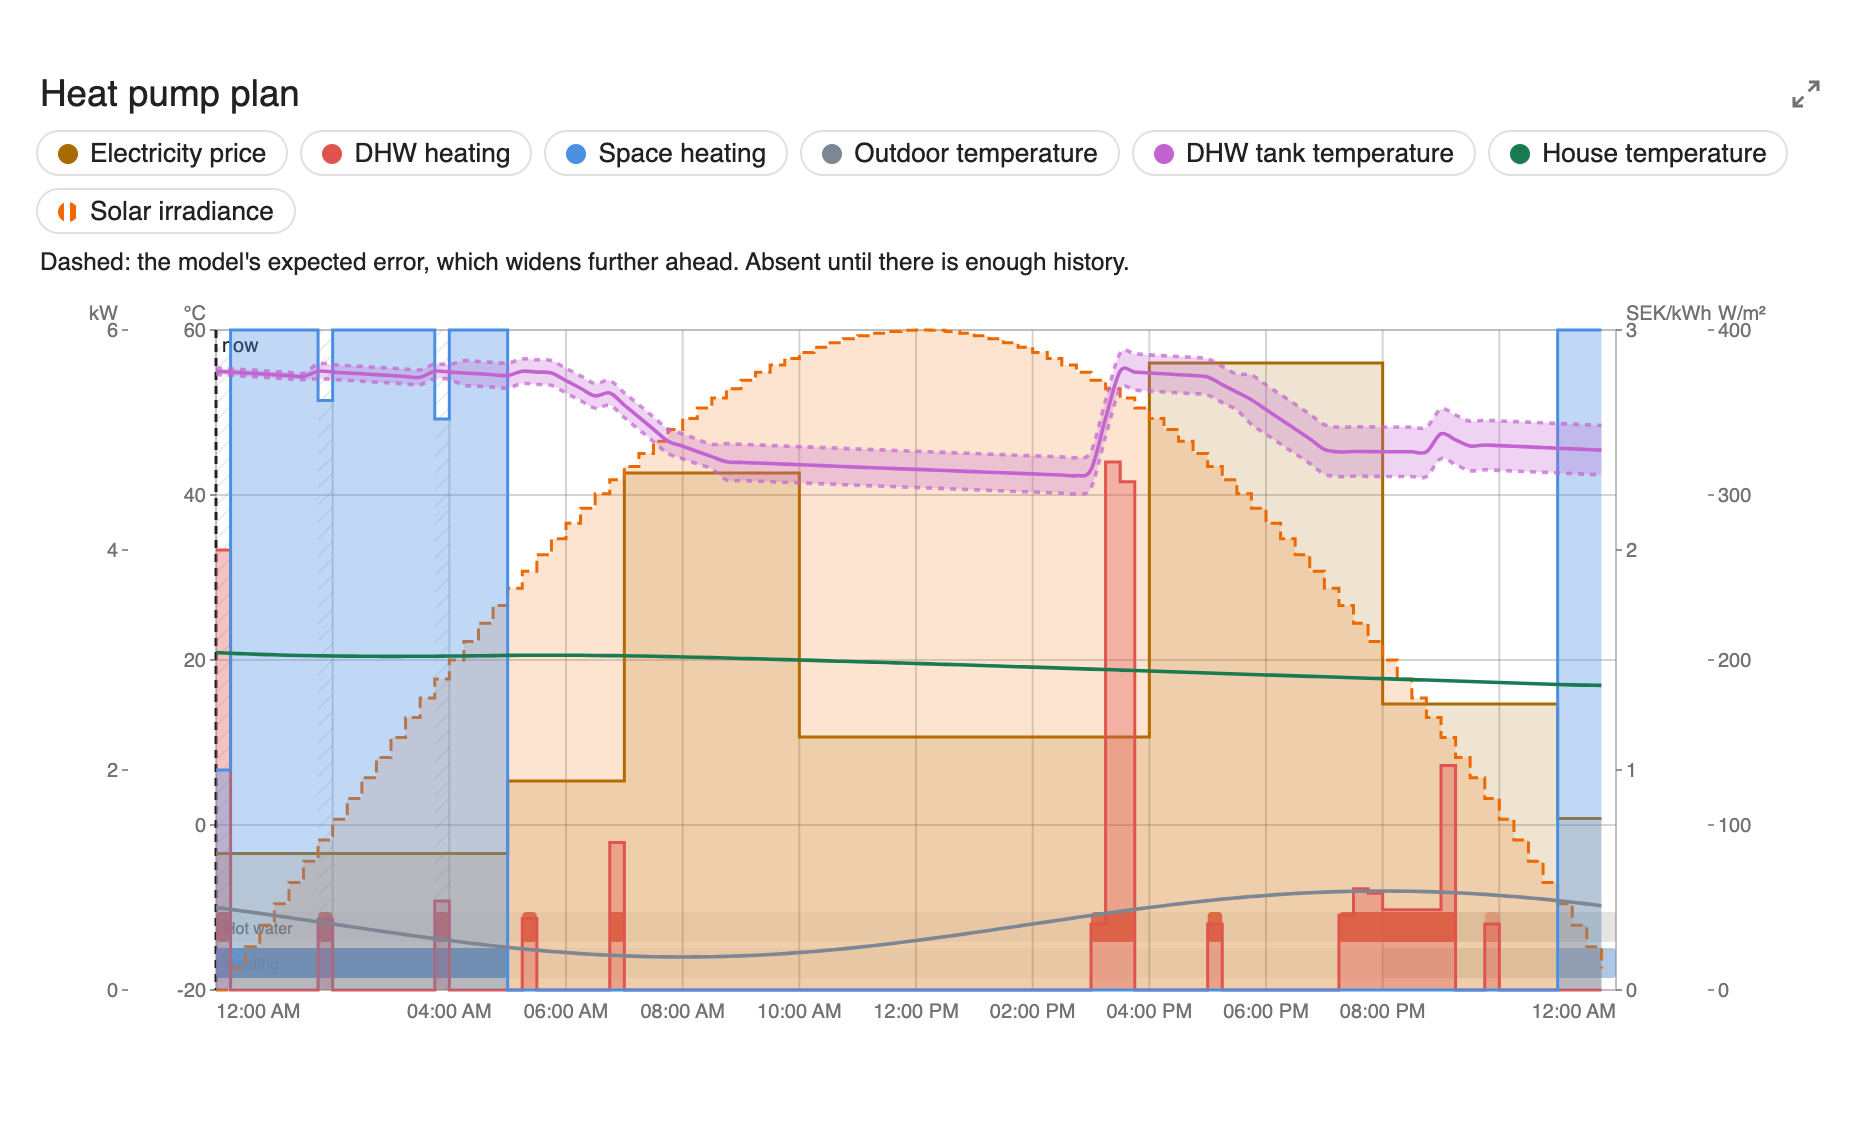
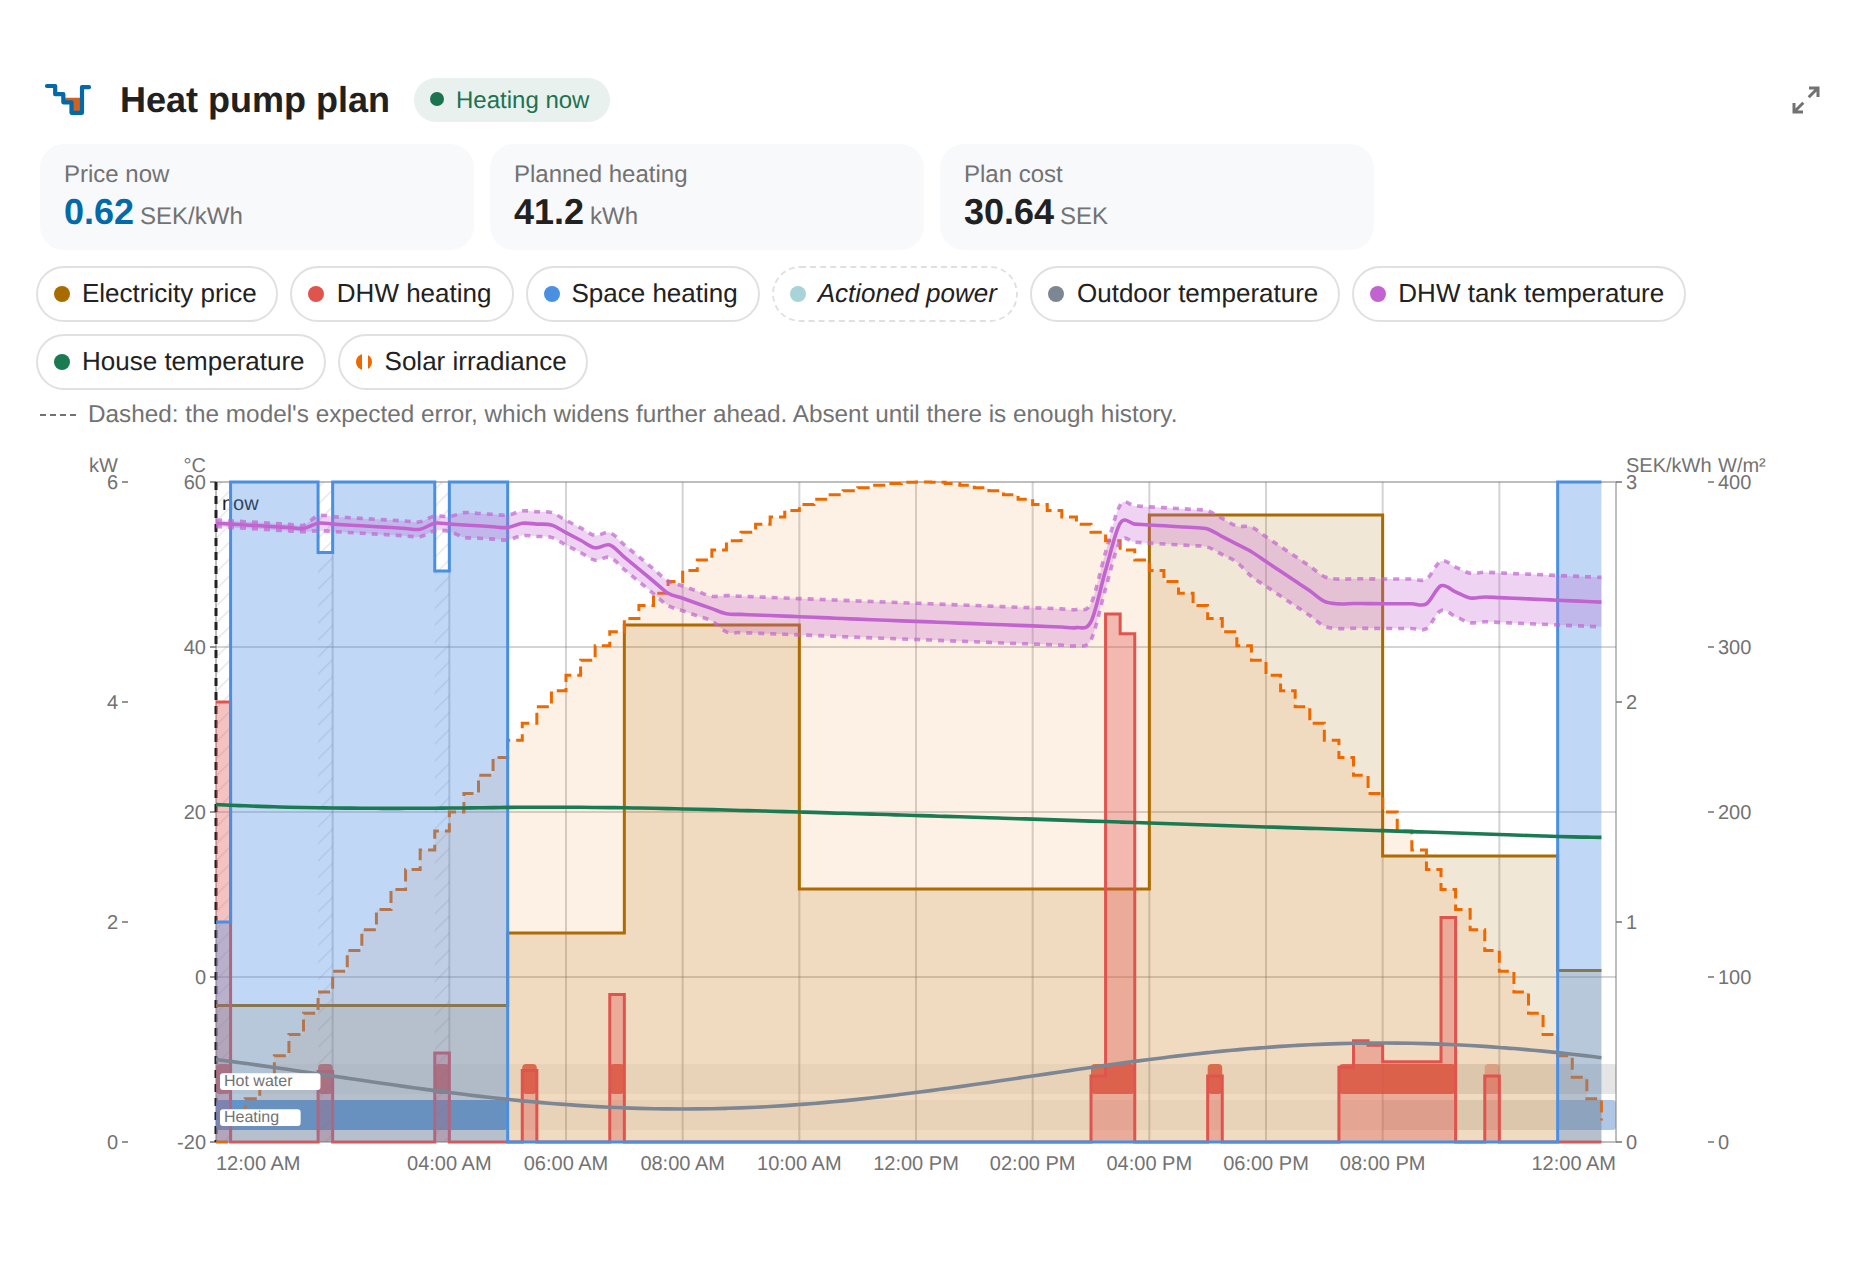
docs: card header, pill states, stat tiles and legend; page screenshots in both themes (R9-UI-3, U5)
docs/img/card/ holds the tile and the Plan, Setup, Savings and Advisor
pages, light and dark, written by HPO_PAGES_OUT=docs/img/card node
tests/card_browser.mjs. The README hero is re-taken with HPO_HERO_OUT
because the tile row changes it.

Claude-Session: https://claude.ai/code/session_01FEgdG3xrjidUGhWo18k61y

diff --git a/docs/dashboard-card.md b/docs/dashboard-card.md
@@ -34,6 +34,52 @@ A vertical "now" marker is drawn at the current time, and hovering (or touching)
 the plot shows a crosshair and a tooltip with the value of every visible series
 at the nearest sample, plus **why** the plan is heating at that moment.
 
+## The card at a glance
+
+<picture>
+  <source media="(prefers-color-scheme: dark)" srcset="img/card/tile-dark.png">
+  <img alt="The dashboard tile: the dusk mark and title with an Idle status pill, a row of four tiles reading price now, planned heating, plan cost and indoor temperature, the savings and score tiles, the plan chart, and the legend chips with the dashed-line footnote under them" src="img/card/tile-light.png">
+</picture>
+
+The screenshots on this page are the shipped card, rendered in a headless
+browser against the solved plan the chart figures use, in the theme your
+browser prefers. `HPO_PAGES_OUT=docs/img/card node tests/card_browser.mjs`
+re-takes all of them, light and dark.
+
+### The header and its status pill
+
+The title sits after the integration's mark: a dusk line falling through the
+cheap hours of the night with the heat it plans pooled under it. After the
+title, a pill says in one word what the plan is doing, in this order of
+precedence:
+
+| Pill | When |
+|---|---|
+| **Manual plan until HH:MM** | You applied a plan by hand; it holds until the time shown. |
+| **Fallback: pump's own curve** | Neither plan sensor has a plan, so the optimizer actuates nothing and the pump follows its own heating curve. |
+| **Plan stale** | No new plan for longer than three solve intervals, and never less than 90 minutes: the same rule the integration uses to stop acting on an old plan. |
+| **Heating now** | A plan step is heating right now. |
+| **Idle** | The plan is current and nothing is heating at this moment. |
+
+Hovering the stale or fallback pill says what the pump does meanwhile. With no
+plan sensor at all the pill is left out, because the card's diagnostics already
+say why.
+
+### The stat tiles
+
+Four tiles sit under the header: the **price now**, the **planned heating**
+(the electricity the plan expects the heat pump to draw over the plotted
+plan, in kWh), the **plan cost** of that electricity, and the **indoor
+temperature** from the sensor the card's history uses. Each is drawn only when
+its source publishes a value, and the indoor tile redraws whenever that sensor
+reports. On a phone the four tiles fold into a two-by-two grid.
+
+### The legend
+
+The legend is a row of compact chips, one per series; on a phone it is a
+single row you scroll sideways. Under it, a one-line footnote names what the
+dashed lines mean, with the full explanation further down this page.
+
 ## Reading the chart
 
 ![The plan chart with every series, the now marker, the editable slot lanes and the time axis numbered, and a key naming each one](img/chart-anatomy.svg)
@@ -104,10 +150,11 @@ claim a precision the record has not earned.
 
 ### The headline row
 
-Under the card title sits a compact row of numbers: **projected savings** for
-the current plan, with the percentage beside it when the integration publishes
-one; the **optimization score** out of 100; and the first line of the **plan
-narrative**. Set `show_stats: false` to leave it out.
+Under the stat tiles sits a second row: **projected savings** for the current
+plan, with the percentage beside it when the integration publishes one, and
+the **optimization score** out of 100, drawn as tiles like the ones above, then
+the first line of the **plan narrative**. Set `show_stats: false` to leave out
+both rows.
 
 Every part is optional, because every source sensor is. The score is
 unavailable until enough history exists, the savings sensors go blank between
@@ -184,6 +231,11 @@ total. It relabels; it does not convert.
 A dashboard card is usually too small to read a 48-hour plan comfortably.
 Clicking anywhere on the card, or the expand button in its header, opens the
 same chart in a large modal overlay, drawn at a larger font.
+
+<picture>
+  <source media="(prefers-color-scheme: dark)" srcset="img/card/plan-dark.png">
+  <img alt="The enlarged view on its Plan tab: the plan chart drawn wide, with the slot lanes and the schedule editor under it" src="img/card/plan-light.png">
+</picture>
 
 Gridlines stand at every hour. How many of them are *labelled* is worked out
 from how wide a label is against how much room an hour gets, then snapped to an
@@ -414,6 +466,11 @@ carries a bar scaled to the biggest month in the table, which answers "compared
 with the others" without quoting a target the page does not show. The open
 month is an estimate until it closes, and is badged as one; a month with no
 settled rows yet says so in words rather than drawing an empty table.
+
+<picture>
+  <source media="(prefers-color-scheme: dark)" srcset="img/card/savings-dark.png">
+  <img alt="The Savings tab: a table of months with the baseline, what was paid, the difference and its percentage, and a bar per month" src="img/card/savings-light.png">
+</picture>
 
 ## The advisor page
 
